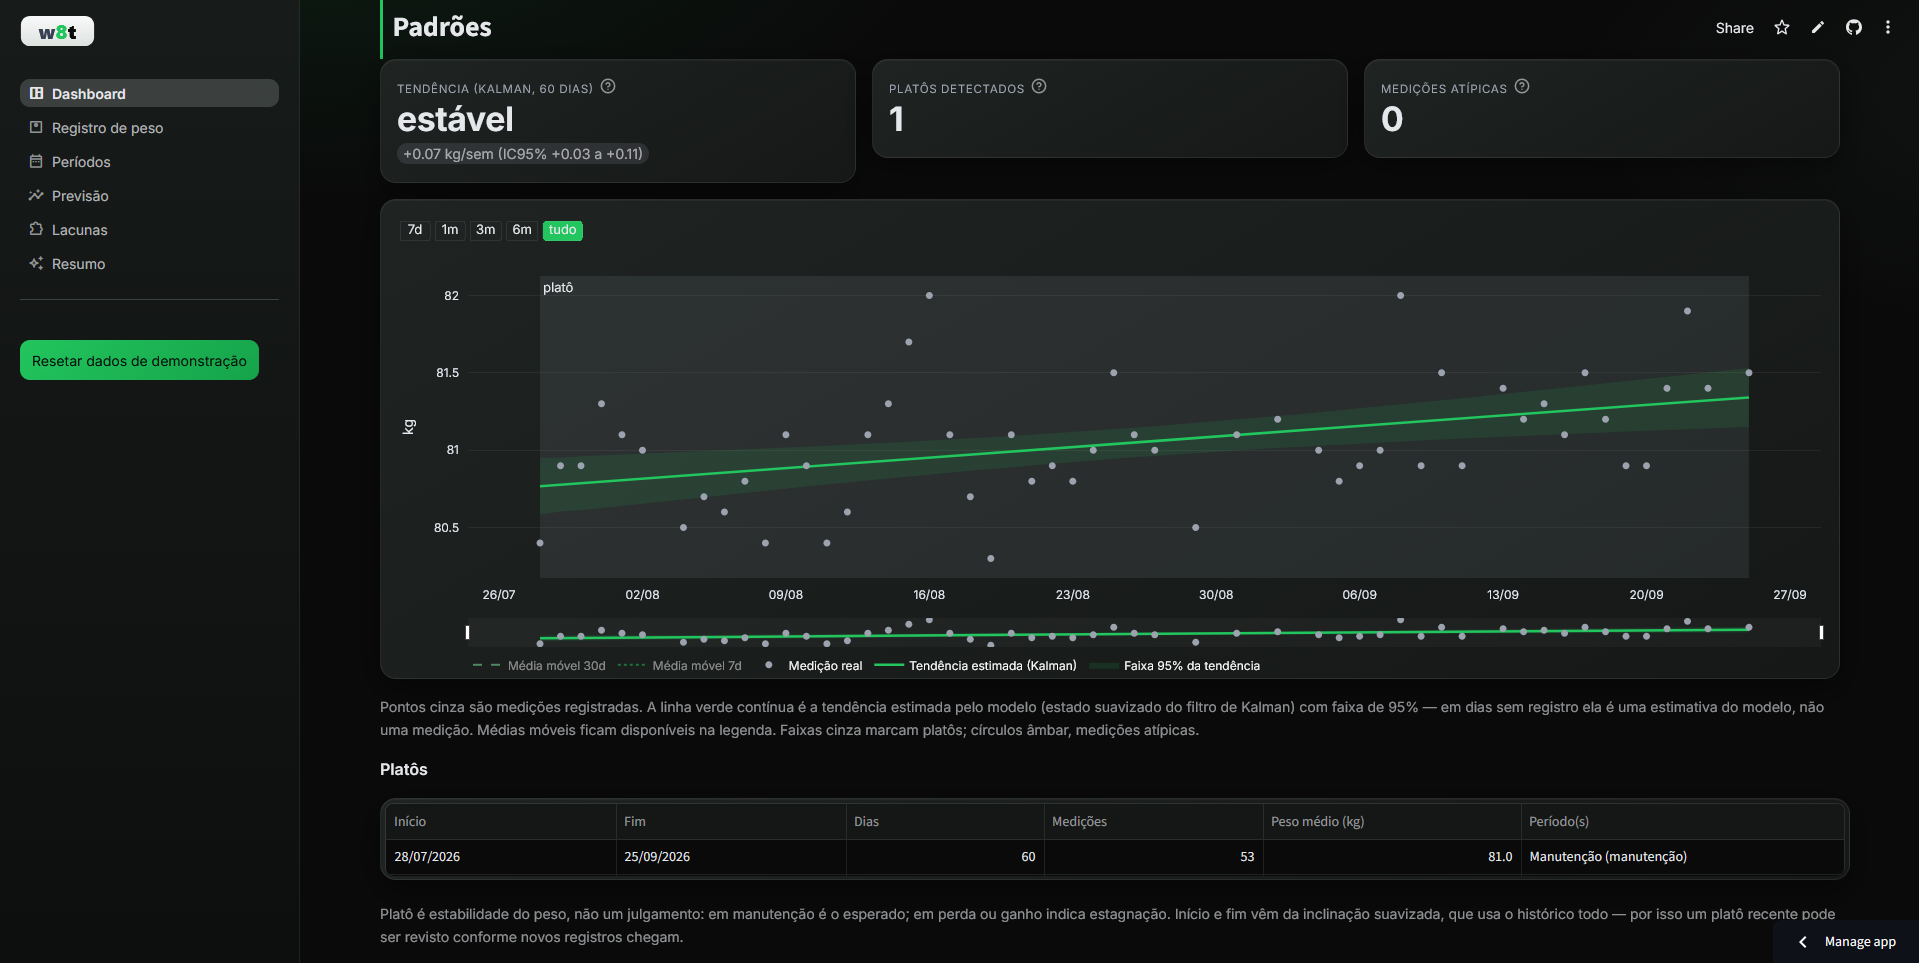
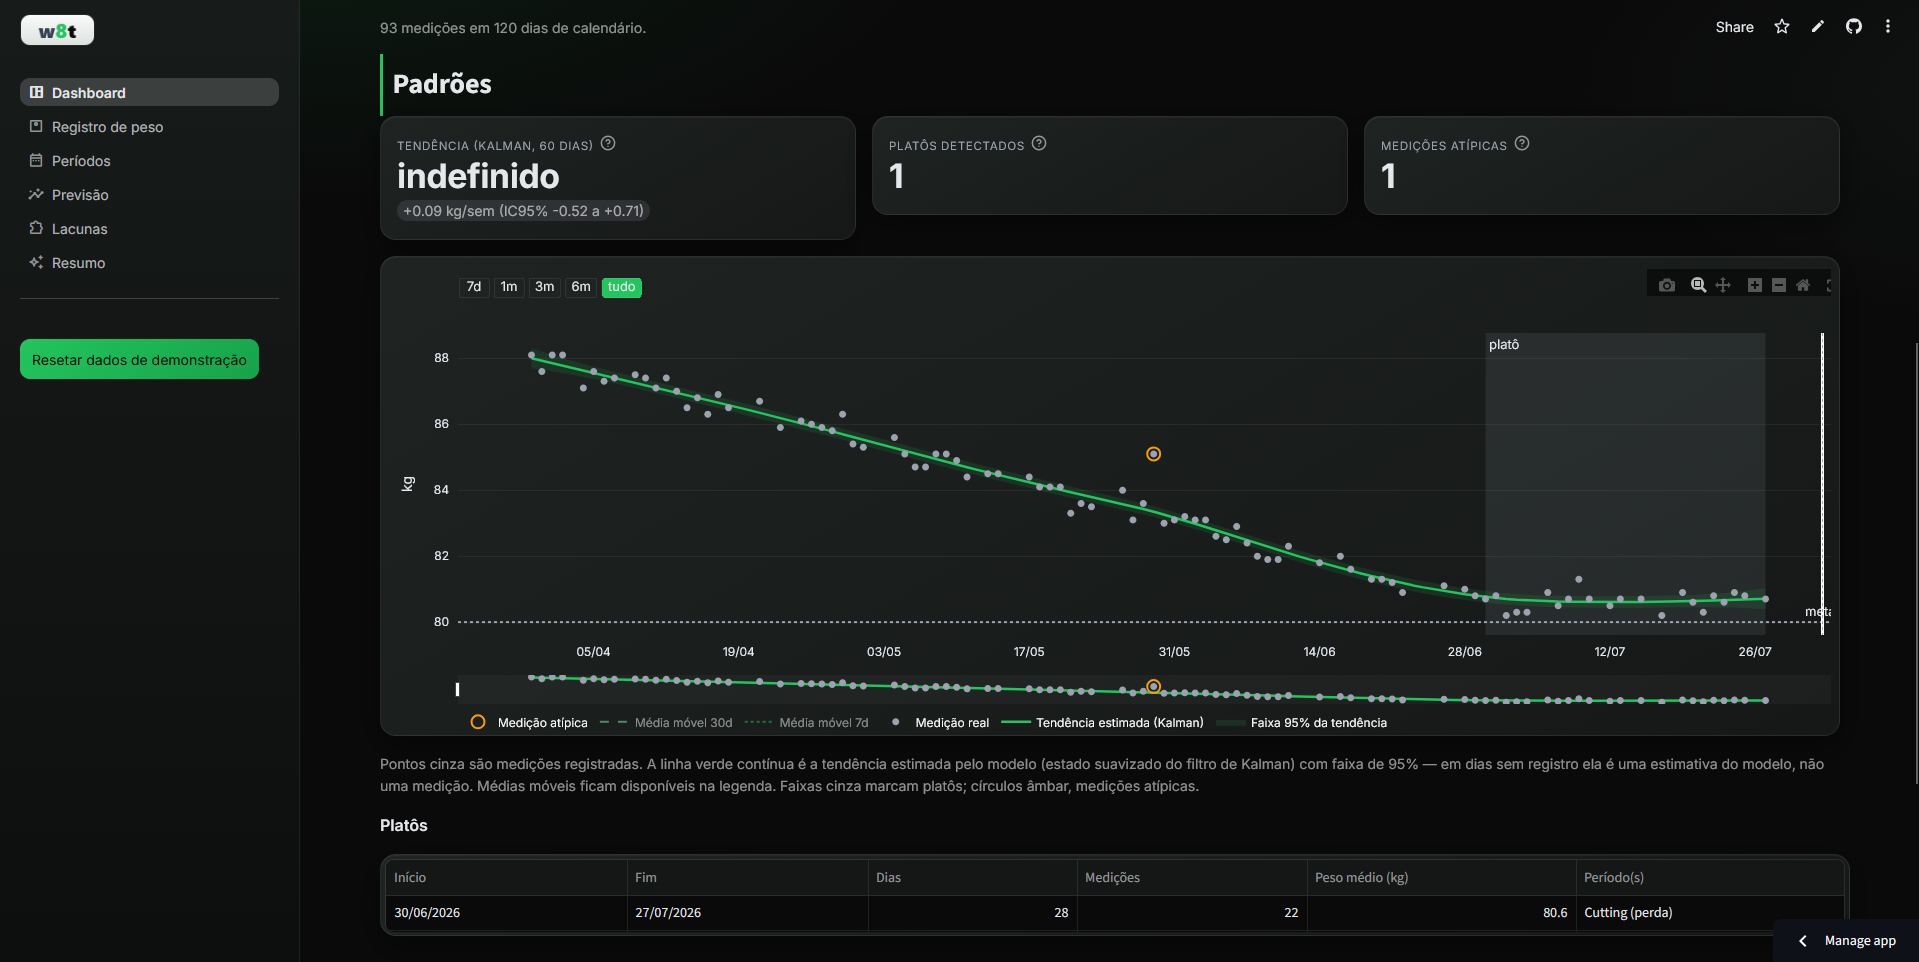
update W8T screenshot
Versioned the image link too, so returning visitors don't keep the cached
old screenshot for GitHub Pages' 10-minute cache window.

diff --git a/index.html b/index.html
@@ -180,7 +180,7 @@
           </div>
           <div class="lg:col-span-3">
             <a href="https://w8t-demo.streamlit.app/" target="_blank" rel="noopener" class="shot block" aria-label="Open the W8T live demo">
-              <img src="static/Homepage_w8t.png" alt="W8T dashboard: Kalman trend with a 95% band over daily weight measurements" loading="lazy" />
+              <img src="static/Homepage_w8t.png?v=2" alt="W8T dashboard: Kalman trend with a 95% band over daily weight measurements" loading="lazy" />
             </a>
             <div class="flex flex-wrap gap-2 mt-6" data-i18n-tags="w8t_tag_tech"></div>
           </div>
